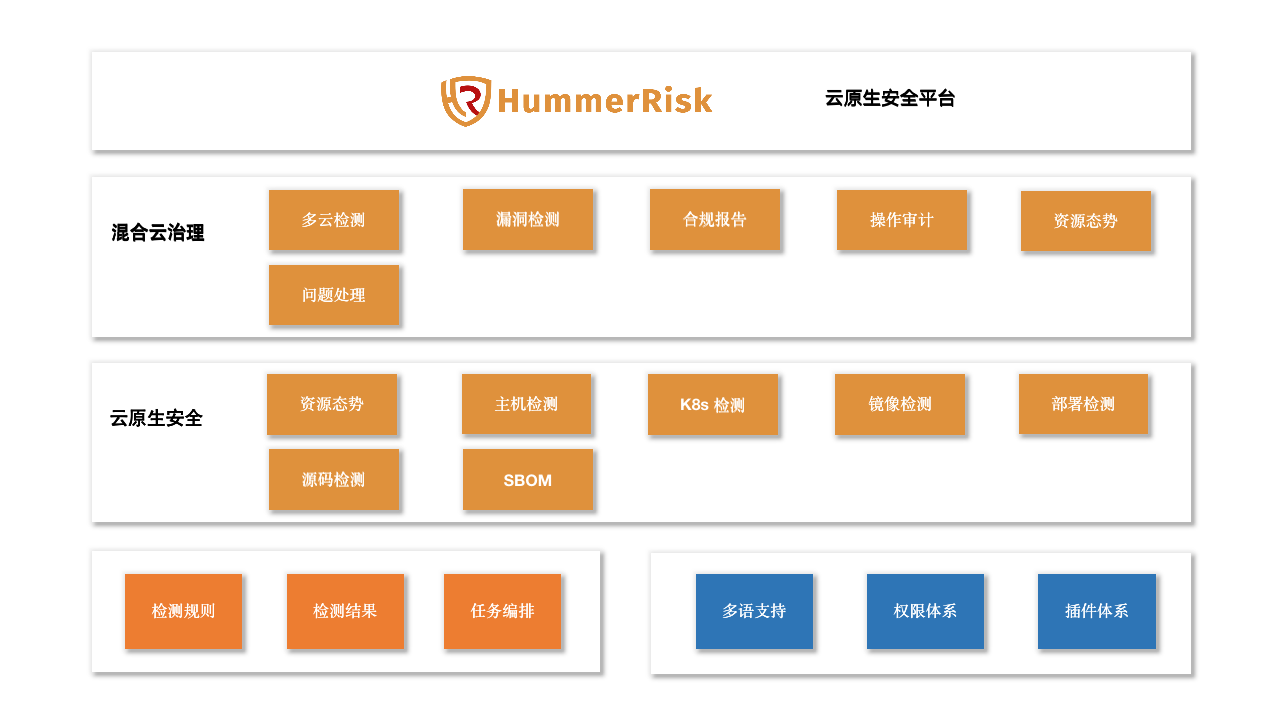
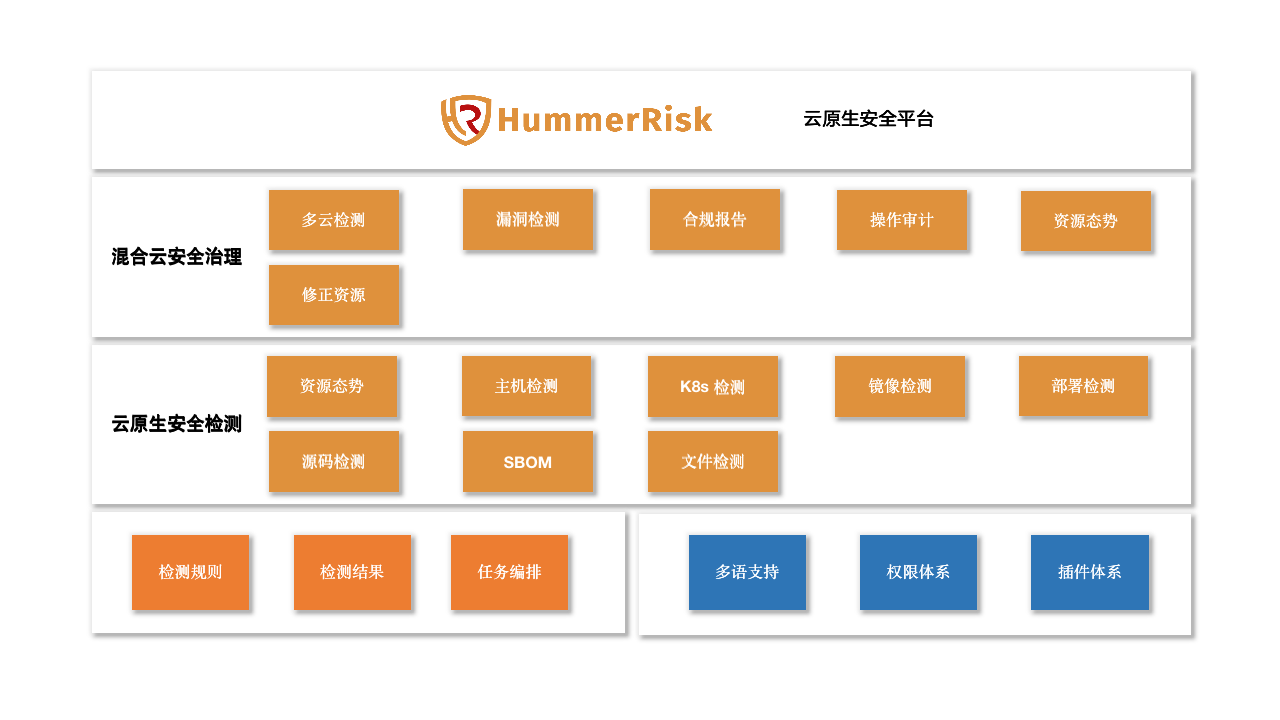
refactor(index):更新README图片

diff --git a/docs/index.md b/docs/index.md
@@ -18,6 +18,8 @@
   基于漏洞规则库，通过扫描等手段对指定的网络设备及应用服务的安全脆弱性进行检测；
 * 合规报告：
   一键获取合规报告，全面掌控安全态势。
+* 操作审计： 
+  统一对多云上的操作日志进行审计
   
 ![混合云安全合规](./img/index/multi-cloud.png){ width="900px" }
 

diff --git a/docs/suggest/azure/azure-cosmosdb.md b/docs/suggest/azure/azure-cosmosdb.md
@@ -26,8 +26,7 @@
     
 ### 处置方案
 !!! info ""
-    您可以使用 AWS 控制台、AWS Command Line Interface (CLI)、REST API 来执行具体的操作。   
-    我们以 AWS 控制台为例，在控制台中处理问题 。
+    我们以 Azure 控制台为例，在控制台中处理问题 。
 
 
 ### 操作步骤

diff --git a/docs/suggest/azure/azure-loadbalancer-publicip.md b/docs/suggest/azure/azure-loadbalancer-publicip.md
@@ -20,8 +20,7 @@
     
 ### 处置方案
 !!! info ""
-    您可以使用 AWS 控制台、AWS Command Line Interface (CLI)、REST API 来执行具体的操作。   
-    我们以 AWS 控制台为例，在控制台中处理问题 。
+    我们以 Azure 控制台为例，在控制台中处理问题 。
 
 
 ### 操作步骤

diff --git a/docs/suggest/azure/azure-publicip-ddos.md b/docs/suggest/azure/azure-publicip-ddos.md
@@ -23,8 +23,7 @@
     
 ### 处置方案
 !!! info ""
-    您可以使用 AWS 控制台、AWS Command Line Interface (CLI)、REST API 来执行具体的操作。   
-    我们以 AWS 控制台为例，在控制台中处理问题 。
+    我们以 Azure 控制台为例，在控制台中处理问题 。
 
 
 ### 操作步骤

diff --git a/docs/suggest/azure/azure-rg-empty.md b/docs/suggest/azure/azure-rg-empty.md
@@ -17,8 +17,7 @@
     
 ### 处置方案
 !!! info ""
-    您可以使用 AWS 控制台、AWS Command Line Interface (CLI)、REST API 来执行具体的操作。   
-    我们以 AWS 控制台为例，在控制台中处理问题 。
+    我们以 Azure 控制台为例，在控制台中处理问题 。
 
 
 ### 操作步骤

diff --git a/docs/suggest/azure/azure-sql-database.md b/docs/suggest/azure/azure-sql-database.md
@@ -19,8 +19,7 @@
     
 ### 处置方案
 !!! info ""
-    您可以使用 AWS 控制台、AWS Command Line Interface (CLI)、REST API 来执行具体的操作。   
-    我们以 AWS 控制台为例，在控制台中处理问题 。
+    我们以 Azure 控制台为例，在控制台中处理问题 。
 
 
 ### 操作步骤

diff --git a/docs/suggest/azure/azure-stopped-vm.md b/docs/suggest/azure/azure-stopped-vm.md
@@ -21,8 +21,7 @@
     
 ### 处置方案
 !!! info ""
-    您可以使用 AWS 控制台、AWS Command Line Interface (CLI)、REST API 来执行具体的操作。   
-    我们以 AWS 控制台为例，在控制台中处理问题 。
+    我们以 Azure 控制台为例，在控制台中处理问题 。
 
 
 ### 操作步骤

diff --git a/docs/suggest/azure/azure-storage-allowip.md b/docs/suggest/azure/azure-storage-allowip.md
@@ -28,8 +28,7 @@
     
 ### 处置方案
 !!! info ""
-    您可以使用 AWS 控制台、AWS Command Line Interface (CLI)、REST API 来执行具体的操作。   
-    我们以 AWS 控制台为例，在控制台中处理问题 。
+    我们以 Azure 控制台为例，在控制台中处理问题 。
 
 
 ### 操作步骤

diff --git a/docs/suggest/azure/azure-unused-disk.md b/docs/suggest/azure/azure-unused-disk.md
@@ -18,8 +18,7 @@
     
 ### 处置方案
 !!! info ""
-    您可以使用 AWS 控制台、AWS Command Line Interface (CLI)、REST API 来执行具体的操作。   
-    我们以 AWS 控制台为例，在控制台中处理问题 。
+    我们以 Azure 控制台为例，在控制台中处理问题 。
 
 
 ### 操作步骤

diff --git a/docs/suggest/azure/azure-vm-publicip.md b/docs/suggest/azure/azure-vm-publicip.md
@@ -18,8 +18,7 @@
     
 ### 处置方案
 !!! info ""
-    您可以使用 AWS 控制台、AWS Command Line Interface (CLI)、REST API 来执行具体的操作。   
-    我们以 AWS 控制台为例，在控制台中处理问题 。
+    我们以 Azure 控制台为例，在控制台中处理问题 。
 
 
 ### 操作步骤

diff --git a/docs/suggest/azure/azure-network-interface.md b/docs/suggest/azure/azure-network-interface.md
@@ -18,8 +18,7 @@
 
 ### 处置方案
 !!! info ""
-    您可以使用 AWS 控制台、AWS Command Line Interface (CLI)、REST API 来执行具体的操作。   
-    我们以 AWS 控制台为例，在控制台中处理问题 。
+    我们以 Azure 控制台为例，在控制台中处理问题 。
 
 
 ### 操作步骤

diff --git a/docs/suggest/azure/azure-network-securitygroup.md b/docs/suggest/azure/azure-network-securitygroup.md
@@ -21,8 +21,7 @@
 
 ### 处置方案
 !!! info ""
-    您可以使用 AWS 控制台、AWS Command Line Interface (CLI)、REST API 来执行具体的操作。   
-    我们以 AWS 控制台为例，在控制台中处理问题 。
+    我们以 Azure 控制台为例，在控制台中处理问题 。
 
 
 ### 操作步骤
